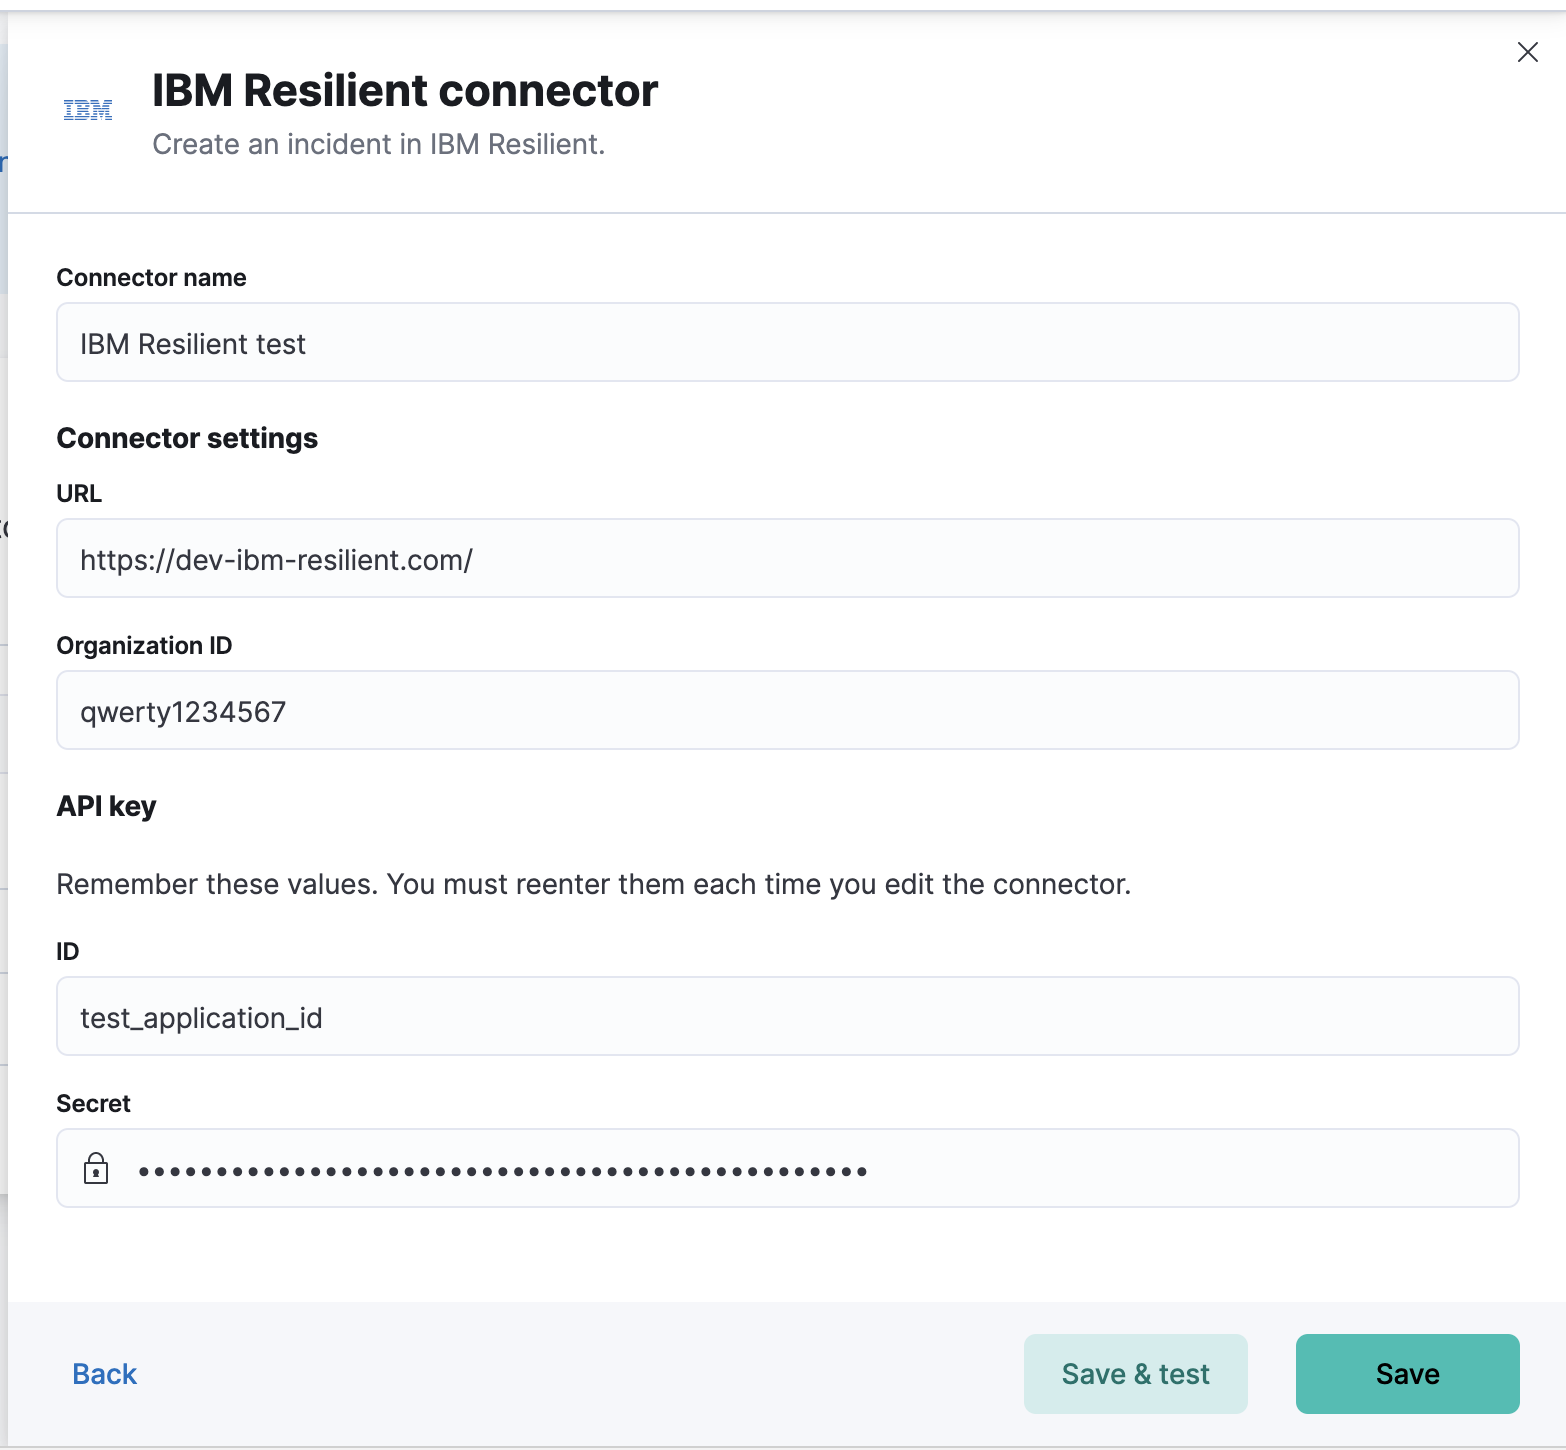
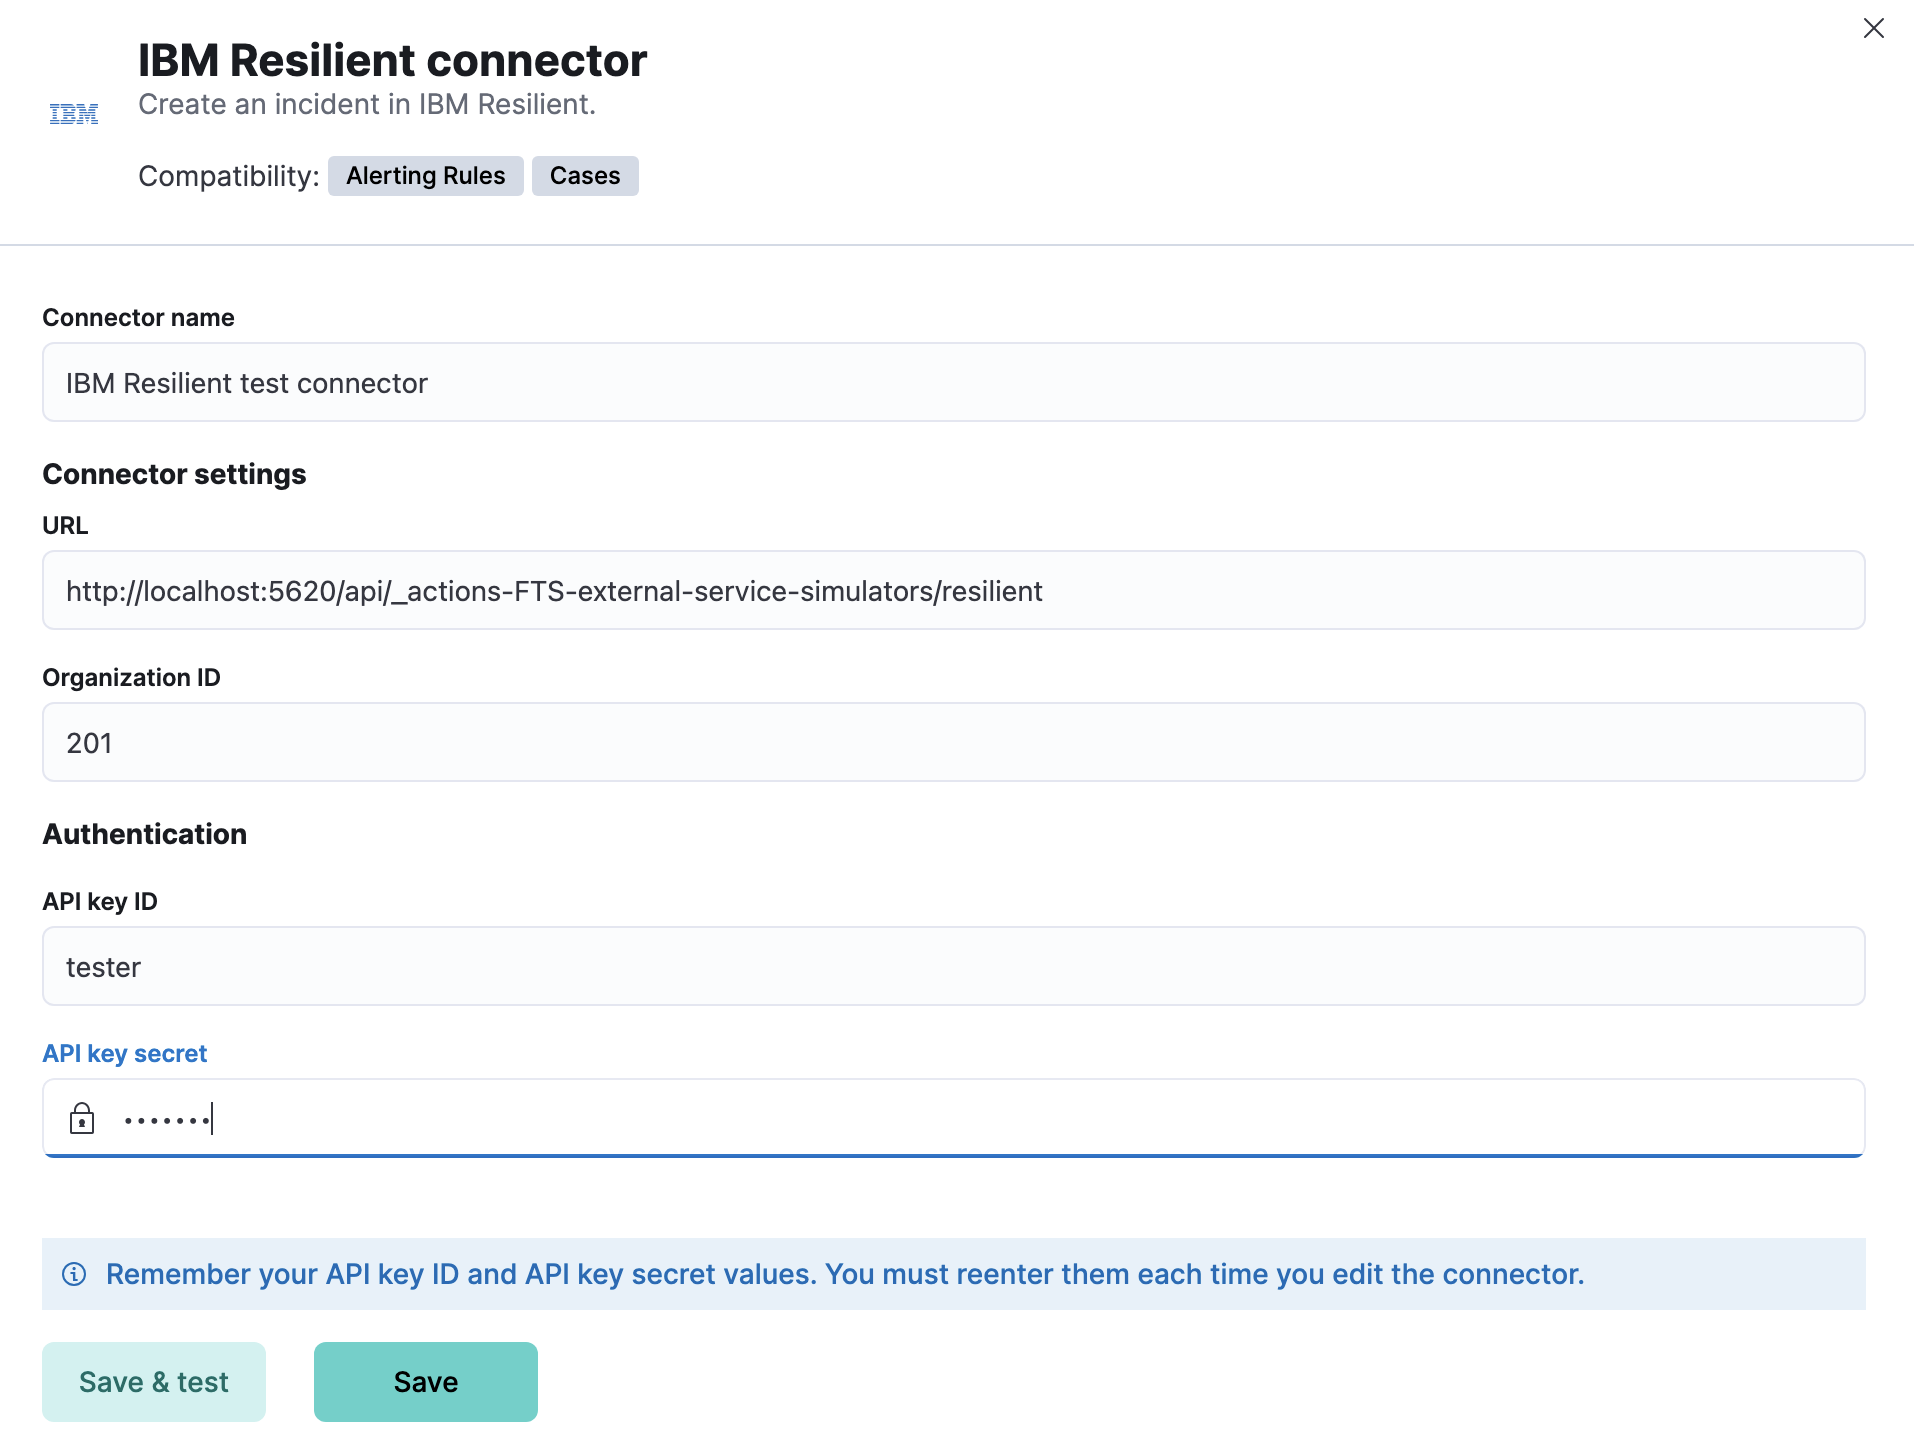
[Connectors][IBM Resilient] Edit required labels and automate screenshots (#166022)

Changed region(s): [[0.0, 0.0, 1.0, 1.0], [0.9502, 0.0, 1.0, 0.0311]]

diff --git a/x-pack/test/screenshot_creation/apps/response_ops_docs/stack_connectors/ibm_resilient_connector.ts b/x-pack/test/screenshot_creation/apps/response_ops_docs/stack_connectors/ibm_resilient_connector.ts
@@ -1,0 +1,57 @@
+/*
+ * Copyright Elasticsearch B.V. and/or licensed to Elasticsearch B.V. under one
+ * or more contributor license agreements. Licensed under the Elastic License
+ * 2.0; you may not use this file except in compliance with the Elastic License
+ * 2.0.
+ */
+
+import {
+  getExternalServiceSimulatorPath,
+  ExternalServiceSimulator,
+} from '@kbn/actions-simulators-plugin/server/plugin';
+import { FtrProviderContext } from '../../../ftr_provider_context';
+
+export default function ({ getService, getPageObjects }: FtrProviderContext) {
+  const actions = getService('actions');
+  const commonScreenshots = getService('commonScreenshots');
+  const screenshotDirectories = ['response_ops_docs', 'stack_connectors'];
+  const pageObjects = getPageObjects(['common', 'header']);
+  const testSubjects = getService('testSubjects');
+  const kibanaServer = getService('kibanaServer');
+
+  let resilientSimulatorUrl: string = '<could not determine kibana url>';
+  let smallUrl: string;
+
+  describe('ibm resilient connector', function () {
+    before(async () => {
+      resilientSimulatorUrl = kibanaServer.resolveUrl(
+        getExternalServiceSimulatorPath(ExternalServiceSimulator.RESILIENT)
+      );
+      smallUrl = resilientSimulatorUrl.replace('/elastic:changeme@', '/');
+    });
+
+    beforeEach(async () => {
+      await pageObjects.common.navigateToApp('connectors');
+      await pageObjects.header.waitUntilLoadingHasFinished();
+    });
+
+    it('ibm resilient connector creation screenshots', async () => {
+      await pageObjects.common.navigateToApp('connectors');
+      await pageObjects.header.waitUntilLoadingHasFinished();
+      await actions.common.openNewConnectorForm('resilient');
+      await testSubjects.setValue('nameInput', 'IBM Resilient test connector');
+      await testSubjects.setValue('config.apiUrl-input', smallUrl);
+      await testSubjects.setValue('config.orgId-input', '201');
+      await testSubjects.setValue('secrets.apiKeyId-input', 'tester');
+      await testSubjects.setValue('secrets.apiKeySecret-input', 'testkey');
+      await commonScreenshots.takeScreenshot('resilient-connector', screenshotDirectories);
+      await testSubjects.click('create-connector-flyout-save-test-btn');
+      // Close all toasts since it is unable to get incident types from example site
+      await pageObjects.common.clearAllToasts();
+      await pageObjects.header.waitUntilLoadingHasFinished();
+      await pageObjects.common.clearAllToasts();
+      await commonScreenshots.takeScreenshot('resilient-params-test', screenshotDirectories);
+      await testSubjects.click('euiFlyoutCloseButton');
+    });
+  });
+}

diff --git a/x-pack/plugins/stack_connectors/public/connector_types/resilient/resilient_params.tsx b/x-pack/plugins/stack_connectors/public/connector_types/resilient/resilient_params.tsx
@@ -11,6 +11,7 @@ import {
   EuiComboBox,
   EuiSelect,
   EuiSpacer,
+  EuiText,
   EuiTitle,
   EuiComboBoxOptionOption,
   EuiSelectOption,
@@ -171,7 +172,7 @@ const ResilientParamsFields: React.FunctionComponent<ActionParamsProps<Resilient
         fullWidth
         label={i18n.translate(
           'xpack.stackConnectors.components.resilient.urgencySelectFieldLabel',
-          { defaultMessage: 'Incident Type' }
+          { defaultMessage: 'Incident type' }
         )}
       >
         <EuiComboBox
@@ -214,8 +215,13 @@ const ResilientParamsFields: React.FunctionComponent<ActionParamsProps<Resilient
           incident.name !== undefined
         }
         label={i18n.translate('xpack.stackConnectors.components.resilient.nameFieldLabel', {
-          defaultMessage: 'Name (required)',
+          defaultMessage: 'Name',
         })}
+        labelAppend={
+          <EuiText size="xs" color="subdued">
+            Required
+          </EuiText>
+        }
       >
         <TextFieldWithMessageVariables
           index={index}

diff --git a/x-pack/test/security_solution_cypress/cypress/e2e/explore/cases/connector_options.cy.ts b/x-pack/test/security_solution_cypress/cypress/e2e/explore/cases/connector_options.cy.ts
@@ -76,7 +76,7 @@ describe('Cases connector incident fields', { tags: ['@ess', '@serverless'] }, (
     cy.get(CONNECTOR_TITLE).should('have.text', getIbmResilientConnectorOptions().title);
     cy.get(CONNECTOR_CARD_DETAILS).should(
       'have.text',
-      `Incident Types: ${getIbmResilientConnectorOptions().incidentTypes.join(', ')}Severity: ${
+      `Incident types: ${getIbmResilientConnectorOptions().incidentTypes.join(', ')}Severity: ${
         getIbmResilientConnectorOptions().severity
       }`
     );

diff --git a/x-pack/test/screenshot_creation/apps/response_ops_docs/stack_connectors/index.ts b/x-pack/test/screenshot_creation/apps/response_ops_docs/stack_connectors/index.ts
@@ -57,6 +57,7 @@ export default function ({ loadTestFile, getService }: FtrProviderContext) {
     loadTestFile(require.resolve('./bedrock_connector'));
     loadTestFile(require.resolve('./email_connector'));
     loadTestFile(require.resolve('./generative_ai_connector'));
+    loadTestFile(require.resolve('./ibm_resilient_connector'));
     loadTestFile(require.resolve('./index_connector'));
     loadTestFile(require.resolve('./jira_connector'));
     loadTestFile(require.resolve('./opsgenie_connector'));

diff --git a/x-pack/plugins/stack_connectors/public/connector_types/resilient/translations.ts b/x-pack/plugins/stack_connectors/public/connector_types/resilient/translations.ts
@@ -21,14 +21,14 @@ export const ORG_ID_LABEL = i18n.translate('xpack.stackConnectors.components.res
 export const API_KEY_ID_LABEL = i18n.translate(
   'xpack.stackConnectors.components.resilient.apiKeyId',
   {
-    defaultMessage: 'API Key ID',
+    defaultMessage: 'API key ID',
   }
 );
 
 export const API_KEY_SECRET_LABEL = i18n.translate(
   'xpack.stackConnectors.components.resilient.apiKeySecret',
   {
-    defaultMessage: 'API Key Secret',
+    defaultMessage: 'API key secret',
   }
 );
 

diff --git a/x-pack/plugins/cases/public/components/connectors/resilient/case_fields_preview.test.tsx b/x-pack/plugins/cases/public/components/connectors/resilient/case_fields_preview.test.tsx
@@ -81,7 +81,7 @@ describe('Jira Fields: Preview', () => {
 
     const getByText = createQueryWithMarkup(screen.getByText);
 
-    expect(getByText('Incident Types: Malware, Denial of Service')).toBeInTheDocument();
+    expect(getByText('Incident types: Malware, Denial of Service')).toBeInTheDocument();
     expect(getByText('Severity: Medium')).toBeInTheDocument();
   });
 });

diff --git a/x-pack/plugins/cases/public/components/connectors/resilient/translations.ts b/x-pack/plugins/cases/public/components/connectors/resilient/translations.ts
@@ -31,7 +31,7 @@ export const INCIDENT_TYPES_PLACEHOLDER = i18n.translate(
 export const INCIDENT_TYPES_LABEL = i18n.translate(
   'xpack.cases.connectors.resilient.incidentTypesLabel',
   {
-    defaultMessage: 'Incident Types',
+    defaultMessage: 'Incident types',
   }
 );
 
